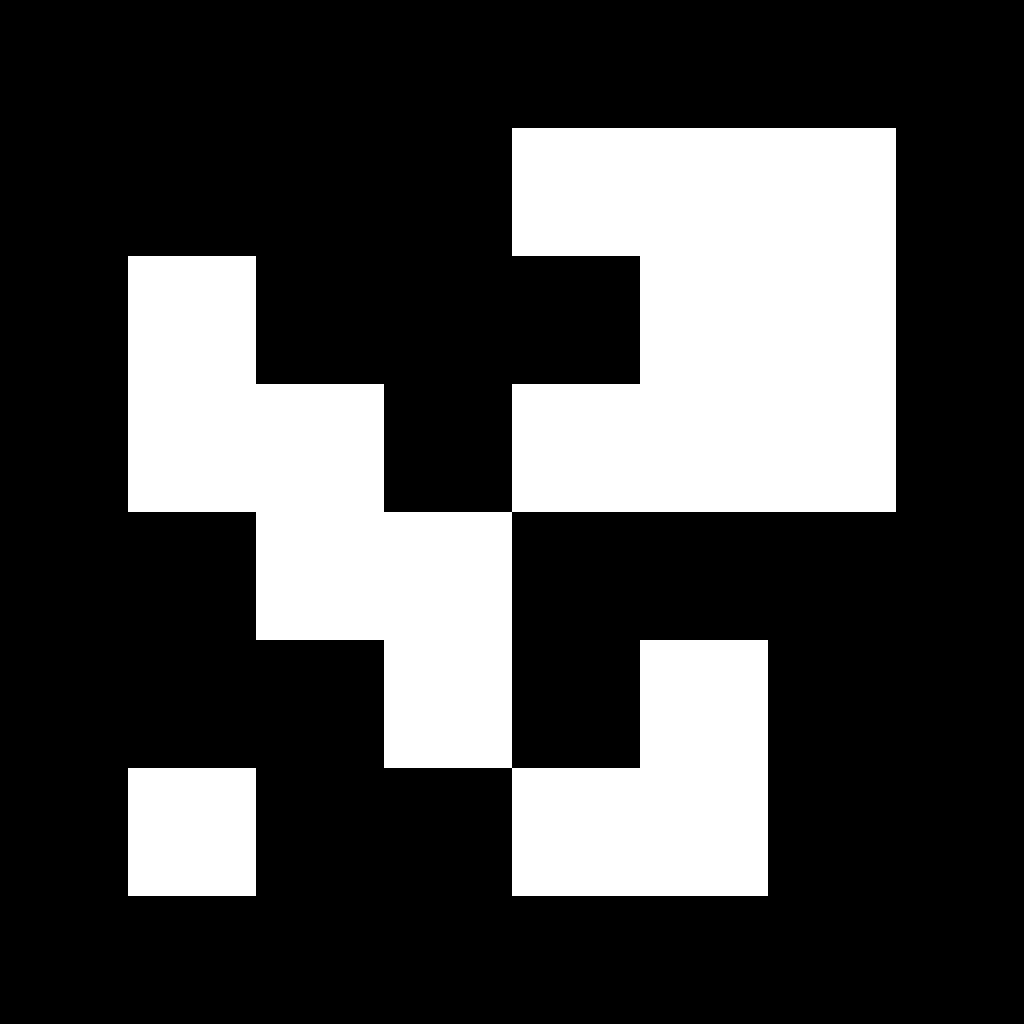
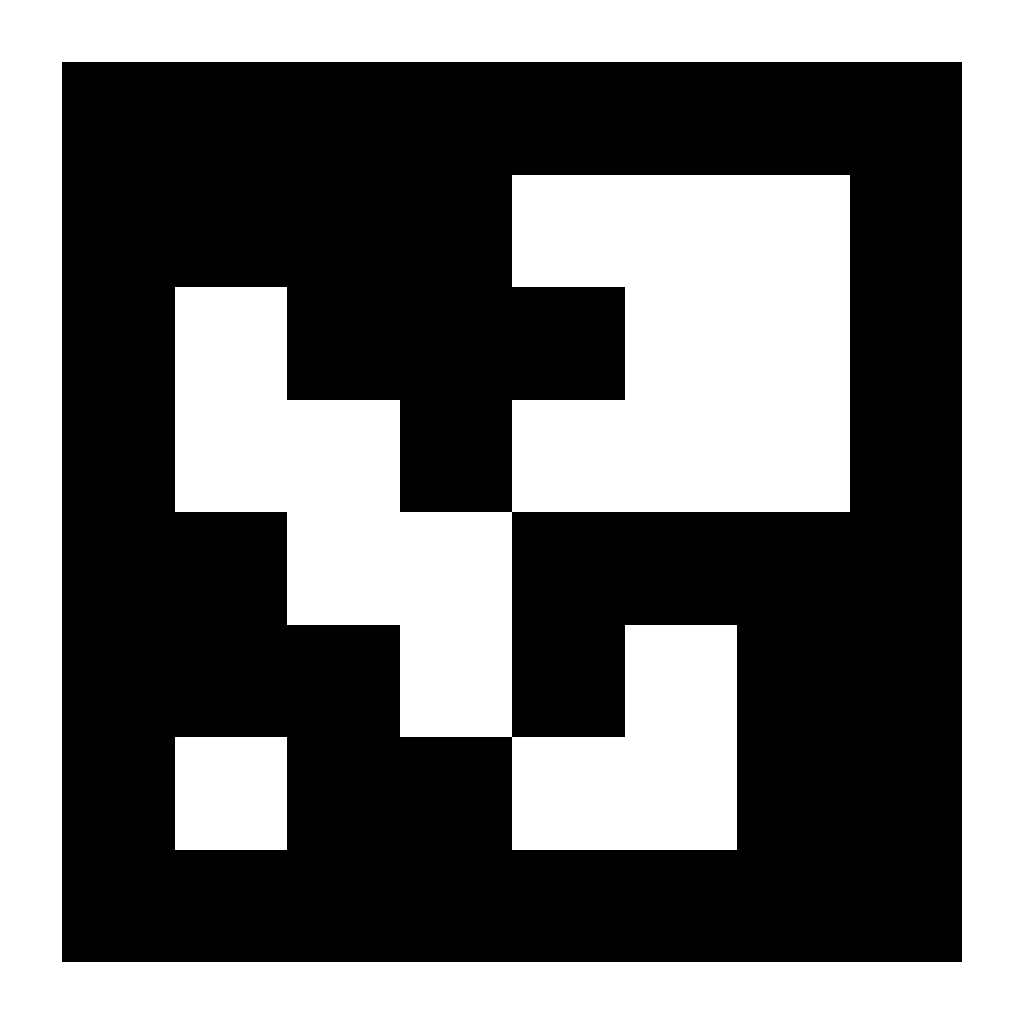
Basic aruco detection

diff --git a/scripts/aruco_camera.py b/scripts/aruco_camera.py
@@ -1,0 +1,60 @@
+import cv2
+import numpy as np
+import rclpy
+from sensor_msgs.msg import Image
+from cv_bridge import CvBridge
+from geometry_msgs.msg import PoseStamped
+from std_msgs.msg import Header
+
+# Import necessary ROS2 modules
+from rclpy.node import Node
+
+from robotPos_sub import PositionSubscriber
+from camera_sub import CameraSubscriber
+from vector_vis import OdometryPublisher
+
+rclpy.init()
+
+robot_pos_sub = PositionSubscriber()
+camera_sub = CameraSubscriber()
+odometry_pub = OdometryPublisher('test_odometry')
+
+def get_image():
+    rclpy.spin_once(camera_sub)
+    return camera_sub.image()
+
+def get_position_and_rotation():
+    rclpy.spin_once(robot_pos_sub)
+    position = robot_pos_sub.get_position()
+    rotation = robot_pos_sub.get_rotation()
+    return position, rotation
+
+def set_odometry(position, rotation):
+    print(f"Setting vector position: {position}")
+    print(f"Setting vector rotation: {rotation}")
+    odometry_pub.odemetry_numpy(position * 10, rotation)
+    rclpy.spin_once(odometry_pub)
+
+camera_matrix = np.array([[600, 0, 320], [0, 600, 240], [0, 0, 1]], dtype=np.float32)
+dist_coeffs = np.zeros((4, 1))
+
+# Aruco marker dectection
+aruco_dict = cv2.aruco.Dictionary_get(cv2.aruco.DICT_6X6_250)
+aruco_params = cv2.aruco.DetectorParameters_create()
+while rclpy.ok():
+    image = get_image()
+    position, rotation = get_position_and_rotation()
+    if image is not None:
+        corners, ids, _ = cv2.aruco.detectMarkers(image, aruco_dict, parameters=aruco_params)
+        print(f"Detected {len(corners)} markers")
+        if ids is not None:
+            rvec, tvec, _ = cv2.aruco.estimatePoseSingleMarkers(corners, 0.05, camera_matrix, dist_coeffs)
+            for i in range(len(ids)):
+                cv2.aruco.drawAxis(image, camera_matrix, dist_coeffs, rvec[i], tvec[i], 0.1)
+                set_odometry(tvec[i][-1], rvec[i][-1])
+        cv2.imshow("Aruco Detection", image)
+        if cv2.waitKey(1) & 0xFF == ord('q'):
+            break
+
+rclpy.shutdown()
+cv2.destroyAllWindows()

diff --git a/aruco_generator.py b/aruco_generator.py
@@ -1,6 +1,7 @@
 import xml.etree.ElementTree as ET
 import cv2
 import os
+import numpy as np
 
 world_name = 'asger_world_test.world'
 
@@ -60,16 +61,28 @@ def parse_world_file(world_file_path):
     root = tree.getroot()
     return tree, root
 
-def generate_aruco_marker(id, file_path, size=1024):
+def generate_aruco_marker(id, file_path, marker_size=900, image_size=1024):
     # Load the predefined dictionary
     aruco_dict = cv2.aruco.Dictionary_get(cv2.aruco.DICT_6X6_250)
 
     # Generate the marker
-    marker_image = cv2.aruco.drawMarker(aruco_dict, id, size)
+    marker_image = np.zeros((marker_size, marker_size), dtype=np.uint8)
+    cv2.aruco.drawMarker(aruco_dict, id, marker_size, marker_image)
 
-    # Save the marker image
+    # Create a white canvas
+    canvas = np.ones((image_size, image_size), dtype=np.uint8) * 255
+
+    # Calculate the position to center the marker
+    start = (image_size - marker_size) // 2
+    end = start + marker_size
+
+    # Place the marker in the center
+    canvas[start:end, start:end] = marker_image
+
+    # Save the final image
     filename = f'aruco_marker_{id}.png'
-    cv2.imwrite(os.path.join(file_path, filename), marker_image)
+    cv2.imwrite(os.path.join(file_path, filename), canvas)
+
 
 def aruco_xml(id, position, rotation):
     # Create model

diff --git a/scripts/vector_vis.py b/scripts/vector_vis.py
@@ -3,6 +3,7 @@ from rclpy.node import Node
 from nav_msgs.msg import Odometry
 from geometry_msgs.msg import Point, Quaternion
 from std_msgs.msg import Header
+import numpy as np
 
 class OdometryPublisher(Node):
     def __init__(self, topic_name, frame_id='odom', rate=0.1):
@@ -22,6 +23,17 @@ class OdometryPublisher(Node):
         """Update the Odometry data dynamically."""
         self.current_position = position
         self.current_orientation = orientation
+
+    def odemetry_numpy(self, position: np.array, orientation: np.array):
+        """
+        Update the Odometry data dynamically using numpy arrays.
+        Args: 
+            position (np.array): The position of the robot in 3D space (x, y, z).
+            orientation (np.array): The orientation of the robot in 3D space (x, y, z, w).
+        """
+        self.current_position = Point(x=position[0], y=position[1], z=position[2])
+        norm = np.linalg.norm(orientation)
+        self.current_orientation = Quaternion(x=orientation[0] / norm, y=orientation[1] / norm, z=orientation[2] / norm, w=0.0)
 
     def publish_odometry(self):
         # Create Odometry message
